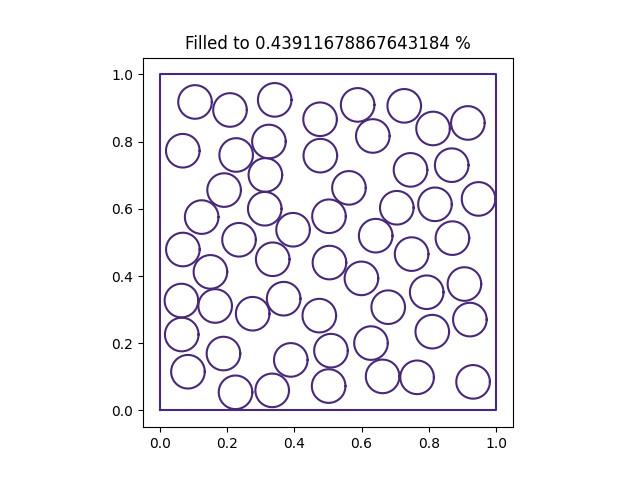
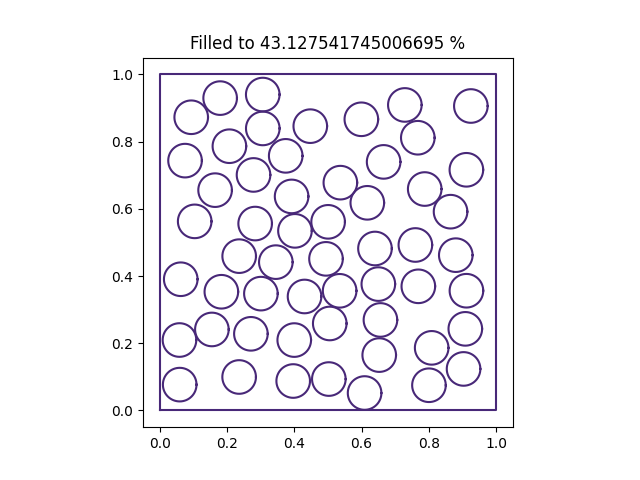
added links to raw github for images and updated some mistakes

Changed region(s): [[0.25, 0.1562, 0.7812, 0.875], [0.2812, 0.0625, 0.75, 0.125], [0.4062, 0.8438, 0.4375, 0.875]]

diff --git a/docs/source/getting_started.rst b/docs/source/getting_started.rst
@@ -47,7 +47,7 @@ For example, we can create a 1m x 1m square like so:
     square = PySALEObject([(0, 0), (1, 0), (1, 1), (0, 1)])
     fig, ax = square.plot()
 
-.. image:: /Users/jgd10/PycharmProjects/PySALESetup/docs/source/media/square_example.png
+.. image:: https://raw.githubusercontent.com/jgd10/PySALESetup/main/docs/source/media/square_example.png
     :width: 400
     :alt: Square example
 
@@ -62,7 +62,7 @@ Although you should note that these are not done in place. New objects are creat
     fig, ax = square.plot()
     diamond.plot(ax)
 
-.. image:: /Users/jgd10/PycharmProjects/PySALESetup/docs/source/media/rotate_example.png
+.. image:: https://raw.githubusercontent.com/jgd10/PySALESetup/main/docs/source/media/square_diamond_example.png
     :width: 400
     :alt: Rotated square example
 
@@ -87,7 +87,7 @@ of the object.
     diamond.plot(ax)
     ellipse.plot(ax)
 
-.. image:: /Users/jgd10/PycharmProjects/PySALESetup/docs/source/media/ellipse_example.png
+.. image:: https://raw.githubusercontent.com/jgd10/PySALESetup/main/docs/source/media/ellipse_example.png
     :width: 400
     :alt: Ellipse example
 
@@ -131,7 +131,7 @@ As such, you can do things like this:
     new_bed1.plot(a)
     new_bed2.plot(a)
 
-.. image:: /Users/jgd10/PycharmProjects/PySALESetup/docs/source/media/rotation_children_example.png
+.. image:: https://raw.githubusercontent.com/jgd10/PySALESetup/main/docs/source/media/rotation_children_example.png
     :width: 400
     :alt: Rotation of children example
 
@@ -150,7 +150,7 @@ or this
     new_bed2.plot(a)
 
 
-.. image:: /Users/jgd10/PycharmProjects/PySALESetup/docs/source/media/resize_children_example.png
+.. image:: https://raw.githubusercontent.com/jgd10/PySALESetup/main/docs/source/media/resize_children_example.png
     :width: 400
     :alt: Resize of children example
 
@@ -178,10 +178,10 @@ circles all of the same size.
         threshold_fill_percent=50.
     )
     f, a = particle_bed.plot()
-    a.set_title(f'Filled to {achieved_area} %')
+    a.set_title(f'Filled to {achieved_area*100/particle_bed.area} %')
 
 
-.. image:: /Users/jgd10/PycharmProjects/PySALESetup/docs/source/media/fill_domain_example.png
+.. image:: https://raw.githubusercontent.com/jgd10/PySALESetup/main/docs/source/media/fill_domain_example.png
     :width: 400
     :alt: domain fill example
 
@@ -219,9 +219,9 @@ The equivalent radius is the radius of a circle with the same area as the grain 
         rotation_distribution=PySALEUniformDistribution((0., 90.))
     )
     f, a = particle_bed.plot()
-    a.set_title(f'Filled to {achieved_area*100} %')
+    a.set_title(f'Filled to {achieved_area*100/particle_bed.area} %')
 
-.. image:: /Users/jgd10/PycharmProjects/PySALESetup/docs/source/media/fill_rectangles_domain_example.png
+.. image:: https://raw.githubusercontent.com/jgd10/PySALESetup/main/docs/source/media/fill_rectangles_domain_example.png
     :width: 400
     :alt: squares domain fill example
 
@@ -263,7 +263,7 @@ So to take our earlier example and add an impactor as well as materials and velo
     a.set_title(f'Filled to {achieved_area*100} %')
 
 
-.. image:: /Users/jgd10/PycharmProjects/PySALESetup/docs/source/media/simple_model_example.png
+.. image:: https://raw.githubusercontent.com/jgd10/PySALESetup/main/docs/source/media/simple_model_example.png
     :width: 400
     :alt: simple model example
 
@@ -329,7 +329,7 @@ With this in mind lets create a mesh for our example from the previous section.
     mesh.apply_geometry(impactor)
     f, a = mesh.plot_materials()
 
-.. image:: /Users/jgd10/PycharmProjects/PySALESetup/docs/source/media/simple_mesh_example.png
+.. image:: https://raw.githubusercontent.com/jgd10/PySALESetup/main/docs/source/media/simple_mesh_example.png
     :width: 400
     :alt: simple mesh example
 
